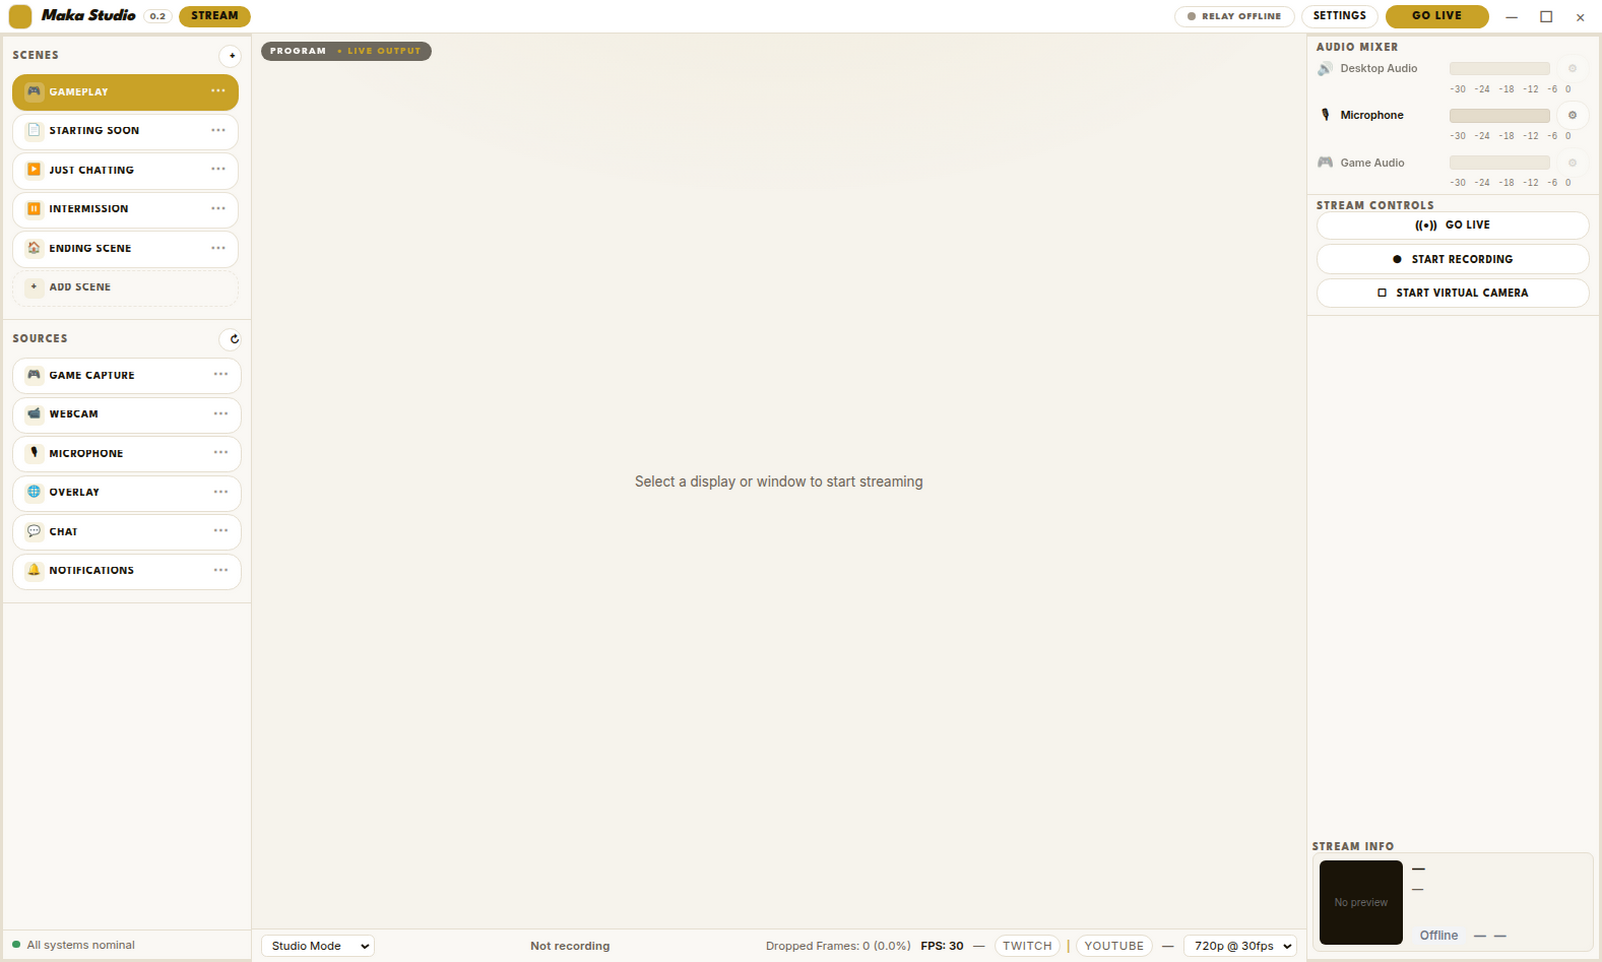
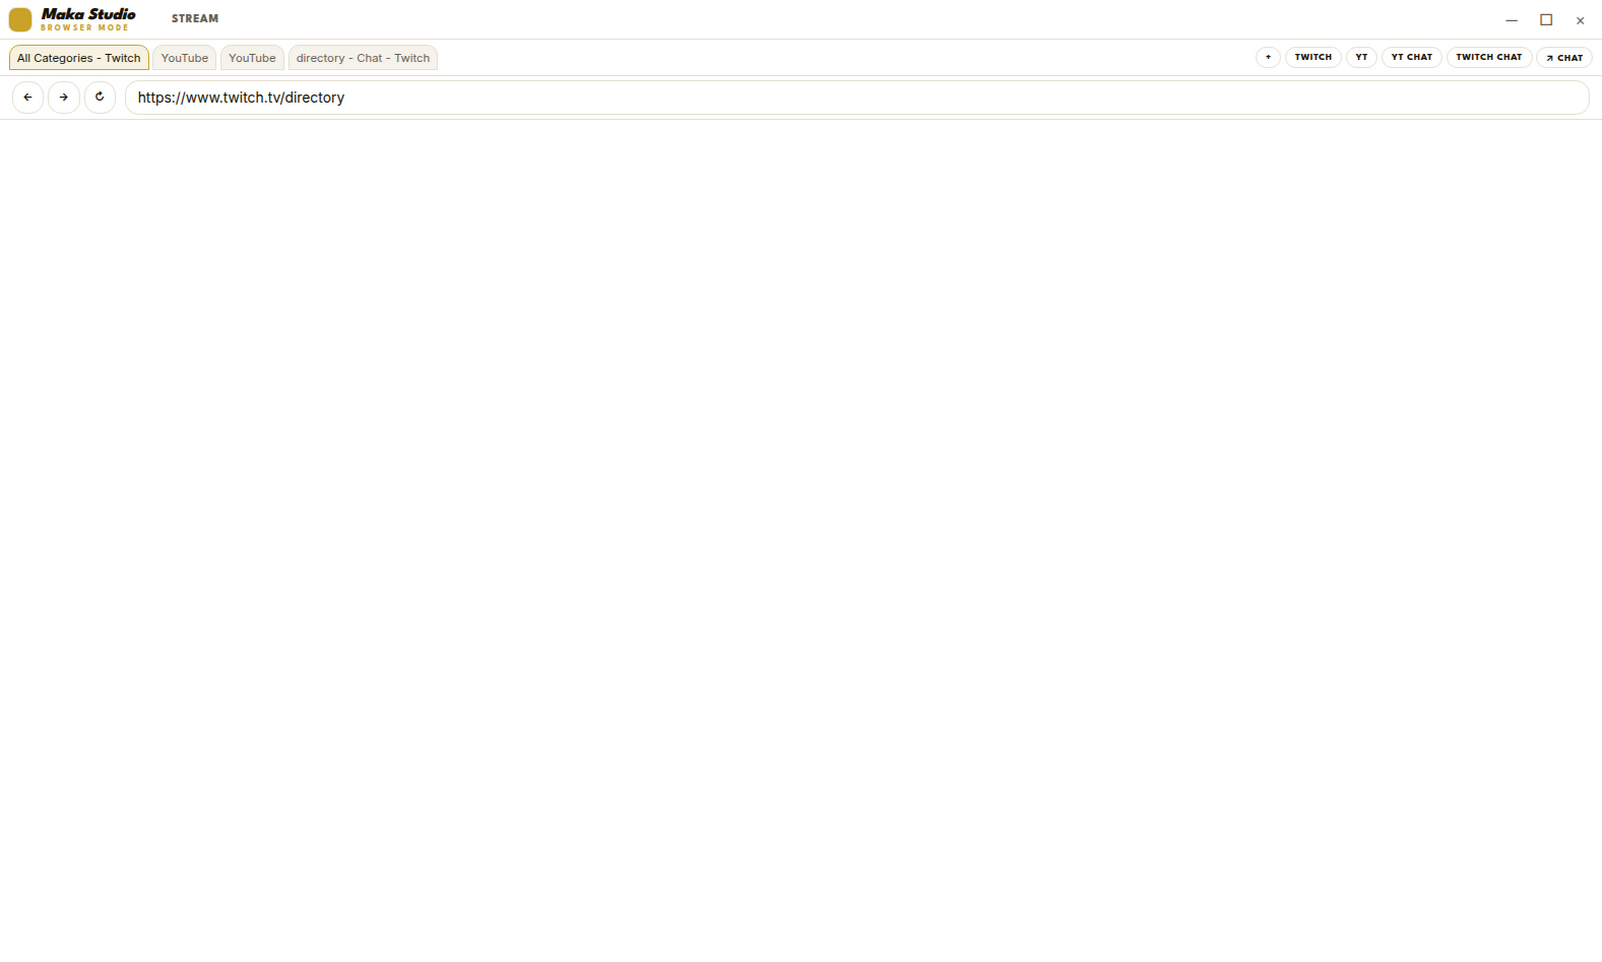
fix(ui): browse mode hides studio chrome and fills browser stage
Expand body[data-mode=browse] rules to hide sidebars, program column,
stats bar, and slim the topbar. Stage frame fills the viewport under
tab strip and nav row; MAKA_CAPTURE_MODE supports browse screenshots.

diff --git a/src/renderer/app.css b/src/renderer/app.css
@@ -65,7 +65,7 @@ body {
 
 body[data-mode='browse'] .app {
   grid-template-columns: 1fr;
-  grid-template-rows: 40px 36px 44px 1fr;
+  grid-template-rows: 40px 36px 44px minmax(0, 1fr);
   grid-template-areas:
     'top'
     'btabs'
@@ -73,12 +73,51 @@ body[data-mode='browse'] .app {
     'stage';
 }
 
-body[data-mode='browse'] .studio-sidebar {
+/* Browse mode: Chrome guest shell only — no studio columns or program chrome */
+body[data-mode='browse'] .sidebar,
+body[data-mode='browse'] .studio-sidebar,
+body[data-mode='browse'] aside.sidebar {
+  display: none !important;
+}
+
+body[data-mode='browse'] .program-column,
+body[data-mode='browse'] .program,
+body[data-mode='browse'] .program-stats {
   display: none !important;
 }
 
 body[data-mode='browse'] .stage {
   grid-column: 1;
+  grid-row: stage;
+  display: block;
+  position: relative;
+  min-height: 0;
+  background: #ffffff;
+  padding: 0;
+}
+
+body[data-mode='browse'] .stage-frame {
+  position: absolute;
+  inset: 0;
+  width: 100%;
+  height: 100%;
+  min-height: 0;
+  z-index: 0;
+}
+
+/* Slim topbar: brand + Stream tab + window controls */
+body[data-mode='browse'] .topbar .relay-chip,
+body[data-mode='browse'] .topbar #btn-settings,
+body[data-mode='browse'] .topbar .go-live {
+  display: none !important;
+}
+
+body[data-mode='browse'] .topbar .version {
+  display: none;
+}
+
+body[data-mode='browse'] #brand-tag {
+  display: inline !important;
 }
 
 .topbar {
@@ -1020,10 +1059,6 @@ dd {
     radial-gradient(ellipse 100% 70% at 50% -20%, rgba(201, 162, 39, 0.08), transparent 55%),
     #f6f3ec;
   overflow: hidden;
-}
-
-body[data-mode='browse'] .program-column {
-  display: none;
 }
 
 #program-video {

diff --git a/src/main/index.ts b/src/main/index.ts
@@ -326,6 +326,10 @@ function createMainWindow(): BrowserWindow {
 
   win.once('ready-to-show', () => {
     win.show()
+    const captureMode = process.env.MAKA_CAPTURE_MODE
+    if (captureMode === 'browse' || captureMode === 'studio') {
+      appMode = captureMode
+    }
     setAppMode(appMode)
     const capturePath = process.env.MAKA_CAPTURE_PATH
     if (capturePath) {

diff --git a/src/renderer/app.ts b/src/renderer/app.ts
@@ -264,6 +264,7 @@ function applyMode(mode: AppMode): void {
 
   if (brandTag) {
     brandTag.textContent = browseOpen ? 'Browser Mode' : 'Streaming studio'
+    brandTag.hidden = !browseOpen
   }
   document.title = browseOpen ? 'Maka — Browser' : 'Maka — Streaming'
 
